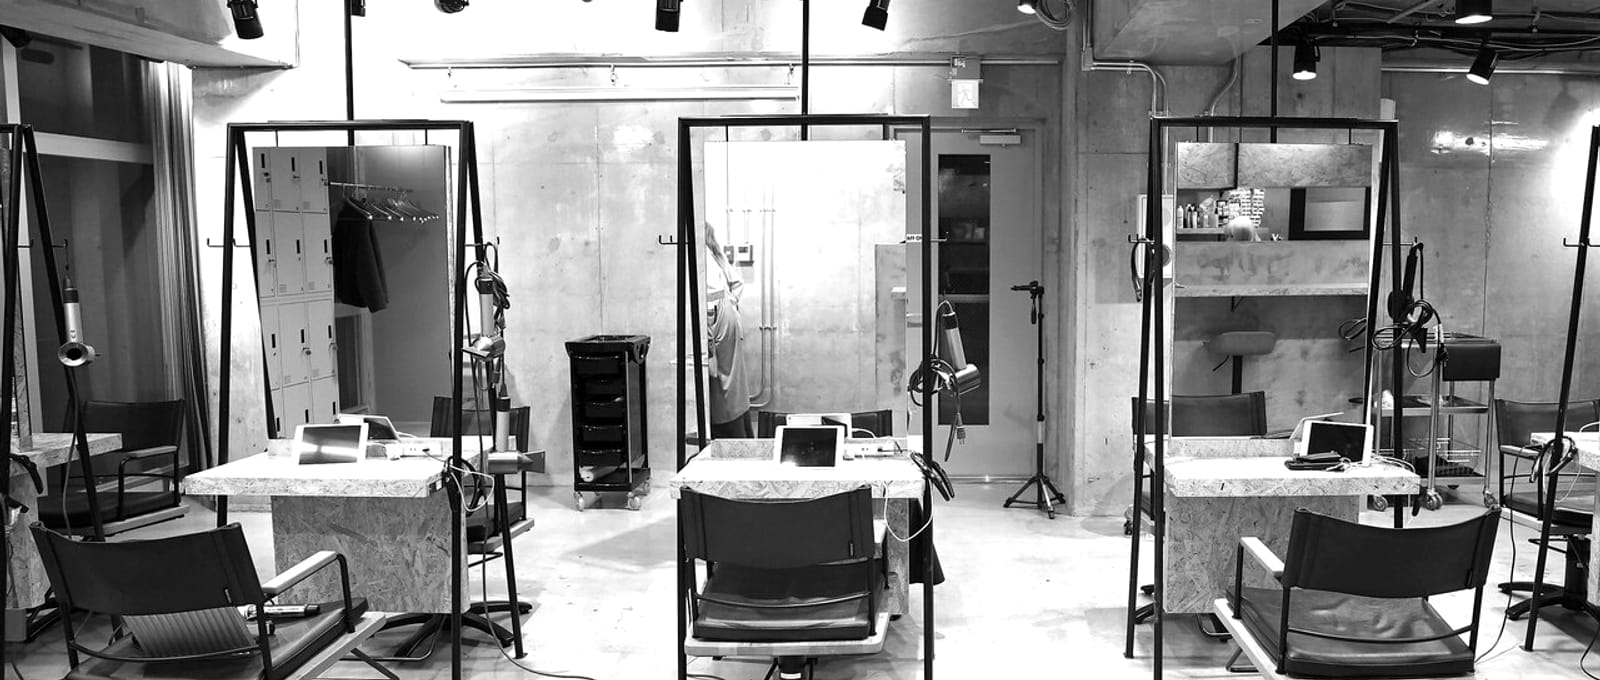
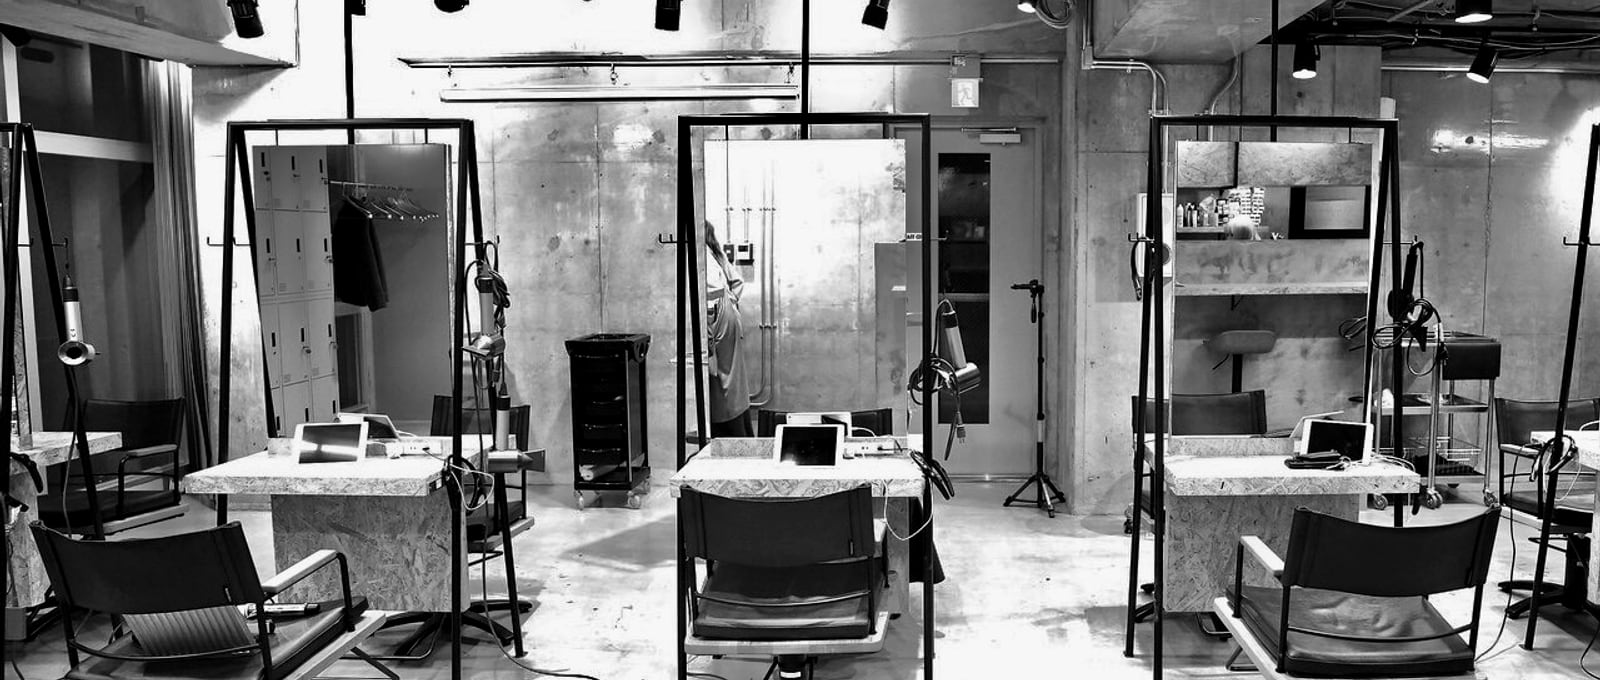
feat(salons): owner-supplied cool-mono interior photos for all 4 salons
Replaces/fills salon interiors with the owner's real photos (chat-supplied):
- harajuku-a (origin lounge) + nagoya (scaffold facade) — NEW heroImage
- harajuku-b (industrial floor) + nagaoka (tiled reception) — replaced
All grayscaled to 1600x680 via sharp (public/salons/*.jpg). Clears the
JSON-LD 'HairSalon has no image' warnings for the two previously photo-less
salons. CLAUDE.md asset TODO updated.

diff --git a/src/data/salons.ts b/src/data/salons.ts
@@ -27,6 +27,7 @@ export const salons: readonly Salon[] = [
     seoDescription:
       "iLe 原宿（iLe Harajuku A）｜明治神宮前駅 徒歩2分・原宿駅 徒歩7分。2020年創業、iLe ブランド発祥の店。独自技術「エフェクトブリーチ」による透明感のあるハイトーンカラー・ブリーチが得意。年中無休、10:00–20:00。",
     badge: "— origin",
+    heroImage: { url: "/salons/harajuku-a.jpg", width: 1600, height: 680 },
   },
   {
     slug: "harajuku-b",
@@ -72,6 +73,7 @@ export const salons: readonly Salon[] = [
     seoDescription:
       "iLe 名古屋（旧 nehus 名古屋／iLe Nagoya）｜栄駅 徒歩9分・矢場町駅 徒歩6分、名古屋市中区栄。独自技術「エフェクトブリーチ」で透明感のあるハイトーンカラー・ブリーチを提案。年中無休、10:00–20:00。",
     badge: "— formerly nehus 名古屋",
+    heroImage: { url: "/salons/nagoya.jpg", width: 1600, height: 680 },
   },
   {
     slug: "nagaoka",

diff --git a/CLAUDE.md b/CLAUDE.md
@@ -287,29 +287,26 @@ the Workers Static Assets flow we actually used).
 > login-walled / rate-limited from CI. Drop the files in and wire as noted —
 > reuse the same `sharp` pipeline (see Changelog commits) so the cool-mono
 > treatment stays consistent.
-> - **Salon interiors — harajuku-a (iLe origin) + nagoya.** Grayscale band,
->   1600×680, save `public/salons/{harajuku-a,nagoya}.jpg`, then add
->   `heroImage: { url, width: 1600, height: 680 }` to those entries in
->   `src/data/salons.ts` (LocalBusiness `image` + the atmosphere band pick it
->   up automatically).
+> - ~~**Salon interiors — harajuku-a + nagoya.**~~ ✅ DONE 2026-06-13 — all 4
+>   salons now have owner-supplied interiors (`public/salons/*.jpg`, 1600×680
+>   grayscale). harajuku-b / nagaoka were also replaced with the owner's photos.
 > - **Staff portraits — 7 missing** (`inoe-mizuki`, `horibe-mihana`,
 >   `fukutani-amane`, `kawahara-ichika`, `yukimatsu-hisa`, `tanogami-yoshiho`,
 >   `yokoyama-ichika`). Grayscale, 600×750 top-anchored, save
 >   `public/staff/<slug>.jpg`, then add
 >   `portrait: { url, width: 600, height: 750 }` to each in
 >   `src/data/stylists.ts`.
-> - **Effect Bleach before/after + real OGP + iLe logo SVG** — still open.
+> - **Effect Bleach before/after + real OGP** — still open. (iLe logo ✅ done
+>   2026-06-13 — boxed "iLe." mark, see `BrandMark.astro`; hero photo ✅ done.)
 
-1. **Real assets** *(the main remaining blocker)* — iLe unified logo SVG,
-   salon interiors for **harajuku-a + nagoya** (HPB only had clean interiors
-   for the other two; these two need operator-supplied photos), Effect Bleach
-   before/after photos, and a real OGP.
-   **Provisional assets already in place** (replace when real ones land):
-   - **Salon interiors**: 2/4 (`harajuku-b`, `nagaoka`) use the salon's own
-     HPB interior photo, self-hosted in `public/salons/<slug>.jpg`, grayscaled,
-     shown as a full-bleed band under the salon hero + fed to LocalBusiness
-     `image`. harajuku-a / nagoya have no clean HPB interior (only style
-     collages) — left text-only until real photos arrive.
+1. **Real assets** — remaining: Effect Bleach before/after photos + a real OGP.
+   ✅ **Done 2026-06-13**: iLe logo (boxed mark, header/footer/favicon/JSON-LD),
+   homepage hero photo, and all **4 salon interiors** (owner-supplied).
+   **Provisional assets still in place** (replace when real ones land):
+   - **Salon interiors**: ✅ 4/4 — all salons have an owner-supplied interior in
+     `public/salons/<slug>.jpg` (1600×680 grayscale), shown as a full-bleed band
+     under the salon hero + fed to LocalBusiness `image`. (harajuku-b / nagaoka's
+     earlier HPB photos were replaced by the owner's on 2026-06-13.)
    - **Staff portraits**: 25/32 staff have photos pulled from the salon's
      own **Hot Pepper Beauty** pages, self-hosted in `public/staff/<slug>.jpg`,
      downsampled + **grayscaled** (`sharp`) to fit cool-mono. 7 have no HPB
@@ -479,6 +476,21 @@ The user has asked that this file be kept up to date whenever things change.
 
 ### Changelog
 
+- **2026-06-13** — ホームページ仕上げ（実素材投入）: (1) ヒーローの開発用
+  プレースホルダー文言を実キャプション「*est.* 2020 — Harajuku, Tokyo」に差替。
+  (2) **ブランド実ロゴ**（枠付き「iLe.」）を導入 — 新規 `BrandMark.astro`
+  （Questrial・`currentColor`）をヘッダー/フッターに、`public/logo.svg`（JSON-LD）
+  と `favicon.svg` も枠付きマークに。(3) **ヒーロー実写真**（夜の原宿交差点）を
+  全画面に組込（`public/hero/harajuku.jpg`、`<Picture>` eager、スクリム＋グレイン）。
+  `optimize-images.mjs` に `hero` ディレクトリ追加。(4) **4店舗の内観写真**を
+  オーナー支給に差替/新規（`public/salons/*.jpg` 1600×680 grayscale、harajuku-a /
+  nagoya は新規で `heroImage` 追加、harajuku-b / nagaoka は差替）→ 写真なし店舗の
+  JSON-LD 警告も解消。check/build/4バリデータ 0エラー。
+  > 運用メモ: オーナーがチャットに貼った画像は transcript JSONL
+  > (`/root/.claude/projects/-home-user/<session>.jsonl`) に base64 で残るため、
+  > そこから実ファイルに復元して `sharp` 加工できる（最大~2000pxで取得可）。
+  > Drive 共有リンク経由DL（`drive.google.com/uc?export=download&id=`）も可。
+  > Drive MCP は当セッションでは承認が通らなかった。
 - **2026-06-12** — 開店年の訂正（オーナー指摘）: 長岡＝**2025年3月**・名古屋＝
   **2025年11月**（旧データの 2023/2024 は誤り。開店順も 長岡→名古屋 に逆転）。
   `salons.ts` `openedAt`（JSON-LD foundingDate / est. 表示）、`/company`